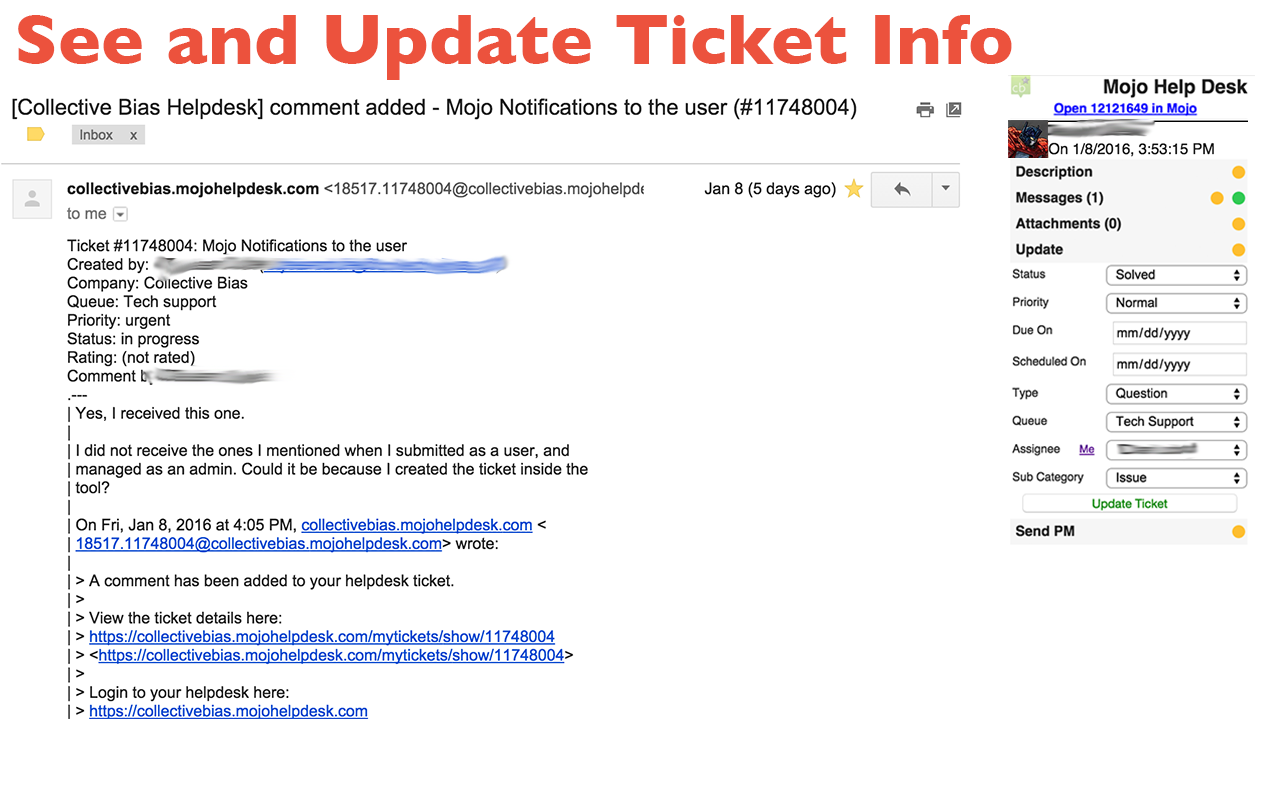
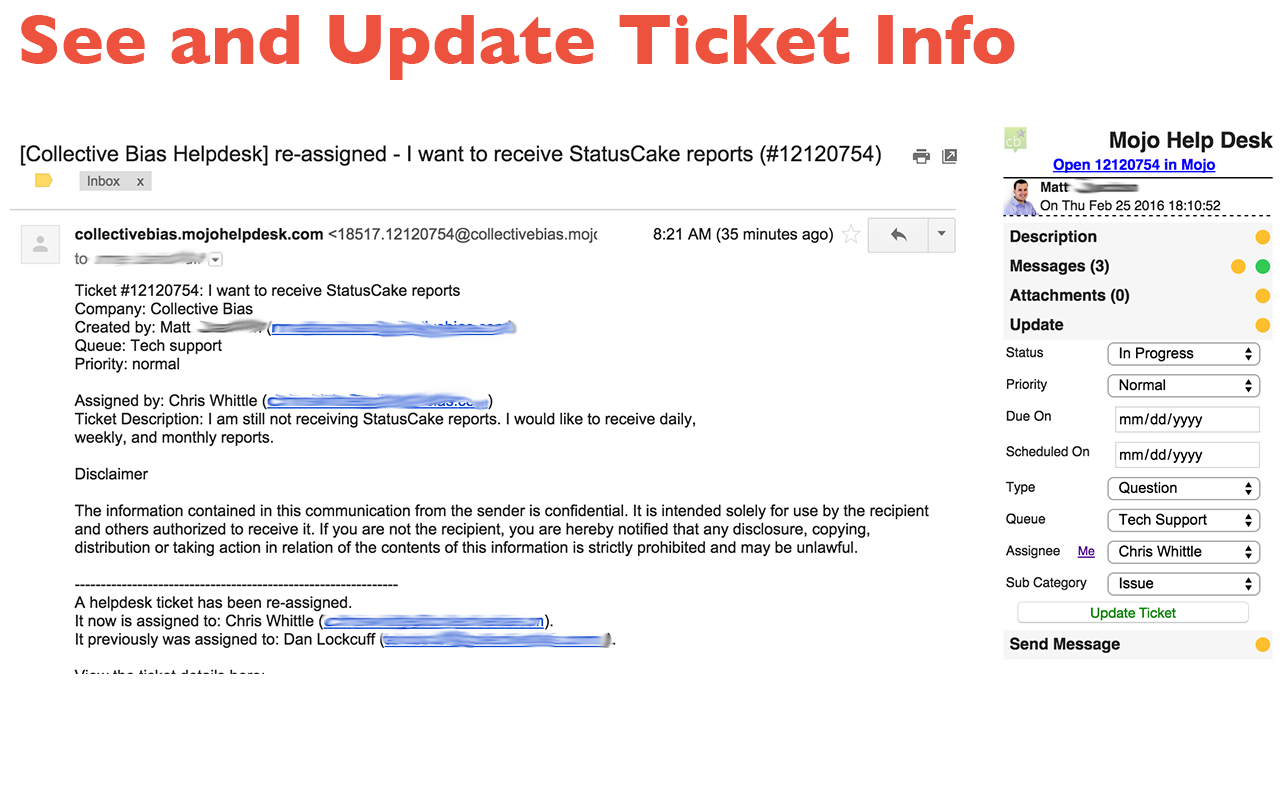
ready to promote with new private and regular messages with updated screen shots

diff --git a/components/Gmail_Sidebar.js b/components/Gmail_Sidebar.js
@@ -5,7 +5,7 @@ var Gmail_Sidebar = React.createClass({
       ticket_description_minimized: true,
       ticket_update_minimized: false,
       ticket_messages_minimized: true,
-      ticket_private_messages_minimized: true,
+      ticket_send_message_minimized: true,
       ticket_attachments_minimized: true,
       ticket: null
     }
@@ -29,13 +29,14 @@ var Gmail_Sidebar = React.createClass({
   },
   getTicket: function(response) {
     var ticket = response.ticket;
+    debug.log(ticket);
     this.setState({
       ticket: ticket
     });
   },
   handleMinimize: function(portlet_name) {
     var oldState = this.state;
-    var available_portlets = ["update", "messages", "description", "attachments", "private_messages"];
+    var available_portlets = ["update", "messages", "description", "attachments", "send_message"];
     var stateObject = function() {
       var one_not_minimized = true;
       returnObj = {};
@@ -67,8 +68,8 @@ var Gmail_Sidebar = React.createClass({
   handleMessagesMinimize: function(event) {
     this.handleMinimize("messages");
   },
-  handlePrivateMessageMinimize: function(event) {
-    this.handleMinimize("private_messages");
+  handleSendMessageMinimize: function(event) {
+    this.handleMinimize("send_message");
   },
   handleAttachmentsMinimize: function(event, event1) {
     this.handleMinimize("attachments");
@@ -119,13 +120,13 @@ var Gmail_Sidebar = React.createClass({
         handleMinimize: this.handleMessagesMinimize,
         minimized: this.state.ticket_messages_minimized
       });
-      var ticket_private_messages_form = React.createElement(Ticket_Private_Message_Form, {
+      var ticket_send_message_form = React.createElement(Ticket_Send_Message_Form, {
         cb_mojo_ext: cb_mojo_ext,
         ticket: this.state.ticket,
-        key: "Ticket_Private_Message_Form",
+        key: "Ticket_Send_Message_Form",
         handleUpdate: this.handleUpdate,
-        handleMinimize: this.handlePrivateMessageMinimize,
-        minimized: this.state.ticket_private_messages_minimized
+        handleMinimize: this.handleSendMessageMinimize,
+        minimized: this.state.ticket_send_message_minimized
       });
       var ticket_attachments_form = React.createElement(Ticket_Attachments_Form, {
         cb_mojo_ext: cb_mojo_ext,
@@ -140,7 +141,7 @@ var Gmail_Sidebar = React.createClass({
       portlets.push(ticket_message_form);
       portlets.push(ticket_attachments_form);
       portlets.push(ticket_update_form);
-      portlets.push(ticket_private_messages_form);
+      portlets.push(ticket_send_message_form);
     } else {
       //TODO LOADING Message
     }

diff --git a/components/forms/Ticket_Send_Message_Form.js b/components/forms/Ticket_Send_Message_Form.js
@@ -1,5 +1,5 @@
-var Ticket_Private_Message_Form = React.createClass({
-    displayName: 'Private Message Form',
+var Ticket_Send_Message_Form = React.createClass({
+    displayName: 'Message Form',
     getInitialState: function() {
         return {
             message: ''
@@ -10,15 +10,23 @@ var Ticket_Private_Message_Form = React.createClass({
             message: event.target.value
         });
     },
-    updateForm: function(event) {
+    sendPrivateMessage: function(event) {
         event.preventDefault();
-        debug.info("Update Private Message");
-        API_Connector.send_private_message(this, this.props.cb_mojo_ext, this.onSent);
+        debug.info("Private Message");
+        API_Connector.send_message(this, true, this.props.cb_mojo_ext, this.onSent);
+    },
+    sendMessage: function(event) {
+        event.preventDefault();
+        debug.info("Message");
+        API_Connector.send_message(this, false, this.props.cb_mojo_ext, this.onSent);
     },
     onSent: function() {
         this.setState({
             message: ""
         });
+        if (this.props.handleUpdate) {
+          this.props.handleUpdate();
+        }
     },
     render: function() {
         var R = React.DOM;
@@ -26,22 +34,26 @@ var Ticket_Private_Message_Form = React.createClass({
         var textarea = R.textarea;
         var button = R.button;
         var content = form({
-            className: "privateMessageForm"
+            className: "messageForm"
         }, R.span({
             className: this.state.status_type,
             id: "update_ticket_status_message",
             key: "status"
         }, this.state.status_message), textarea({
-            id: "private_message",
+            id: "message",
             value: this.state.message,
-            placeholder: "Private Message",
+            placeholder: "Message",
             onChange: this.handleChange
         }), button({
             type: "button",
-            onClick: this.updateForm
-        }, "Send Message"));
+            className: "private",
+            onClick: this.sendPrivateMessage
+        }, "Private Message"),button({
+            type: "button",
+            onClick: this.sendMessage
+        }, "Message"));
         return React.createElement(Portlet, {
-            title: "Send PM",
+            title: "Send Message",
             disable_close: true,
             disable_maximize: true,
             draggable: false,

diff --git a/lib/Shared.js b/lib/Shared.js
@@ -1,4 +1,13 @@
 function Shared() {}
+Shared.reverse = function(a) {
+  var b = [],
+    counter = 0;
+  for (var i = a.length - 1; i >= 0; i -= 1) {
+    b[counter] = a[i];
+    counter += 1;
+  }
+  return b;
+};
 Shared.setDebug = function(isDebug) {
   if (isDebug) {
     window.debug = {
@@ -72,6 +81,9 @@ Shared.convertToFormattedDate = function(inDate) {
       day = date_obj.getDate();
     if (month < 10) {
       month = "0" + month;
+    }
+    if (day < 10) {
+      day = "0" + day;
     }
     return year + "-" + month + "-" + day;
   } else {
@@ -177,9 +189,9 @@ Shared.create_user_info = function(user) {
   var R = React.DOM;
   var now = new Date();
   var url = user.related_data.user.picture_url;
-  if(url==null){
+  if (url == null) {
     url = chrome.extension.getURL("images/icons/default_user.png");
-  }else if(url=="/images/automation-icon.png"){
+  } else if (url == "/images/automation-icon.png") {
     url = chrome.extension.getURL("images/icons/optimus.gif");
   }
   return R.div({
@@ -196,7 +208,7 @@ Shared.create_user_info = function(user) {
     "data-user_id": user.user_id
   }, user.related_data.user.full_name), R.span({
     className: "time_info"
-  }, "On " +Shared.getLocalTimeFromGMT(user.updated_on)));
+  }, "On " + Shared.getLocalTimeFromGMT(user.updated_on)));
 };
 Shared.create_select = function(name, options, value, call_to_action, handleChange) {
   var R = React.DOM;

diff --git a/components/forms/forms.css b/components/forms/forms.css
@@ -98,6 +98,9 @@ input.update_ticket {
   margin: 0px;
   padding: 0px;
 }
+.ticket_messages .titlebar {
+  background: #FFF;
+}
 .ticket_attachments {
   max-height: 350px;
   overflow-y: scroll;
@@ -175,24 +178,33 @@ input.update_ticket {
 .ticket_messages {
   background-color: white;
 }
-.ticket_messages .alt {}
+.ticket_messages .alt {
+  background-color: #f2f2f2;
+}
 .ticket_messages .is_private {
-  background-color: lightgray;
-  -webkit-filter: invert(.8);
+  background-color: #F5DEB3;
 }
 .ticket_messages .is_private .user_info[data-user_id]::after {
   content: " (Private)";
 }
-.privateMessageForm {}
-.privateMessageForm textarea {
+.messageForm {}
+.messageForm textarea {
   width: 90%;
   height: 150px;
   display: block;
   position: relative;
 }
-.privateMessageForm button {
-  width: 90%;
+.messageForm button {
+  width: 30%;
   clear: both;
+  margin: 3px;
+  height: 20px;
+  border-radius: 8px;
+  border-color: #fff;
+}
+.messageForm button.private {
+  width: 60%;
+  background-color: #F5DEB3;
 }
 .ticket_info {
   clear: both;

diff --git a/services/API_Connector.js b/services/API_Connector.js
@@ -17,12 +17,14 @@ API_Connector.get_queues = function(cb_mojo_ext, success_function) {
 API_Connector.get_agent_id = function(cb_mojo_ext, success_function) {
   $.getJSON("https://mysupport.mojohelpdesk.com/api/users/get_by_email.json?email=" + cb_mojo_ext.email_address + "&access_key=" + cb_mojo_ext.api_key, success_function);
 }
-API_Connector.send_private_message = function(react_element, cb_mojo_ext, onsuccess) {
+API_Connector.send_message = function(react_element,is_private, cb_mojo_ext, onsuccess) {
   var state = react_element.state;
   //var ticket_id = event.data("ticket_id");
   var XMLData = "<comment>";
   XMLData = XMLData + "<body>" + state.message + "</body>";
-  XMLData = XMLData + "<is_private>true</is_private>";
+  if(is_private == true){
+    XMLData = XMLData + "<is_private>true</is_private>";
+  }
   XMLData = XMLData + "</comment>";
 
   debug.info(XMLData);

diff --git a/components/forms/Ticket_Messages_Form.js b/components/forms/Ticket_Messages_Form.js
@@ -6,14 +6,15 @@ var Ticket_Messages_Form = React.createClass({
     var message_count = 0
     if (!Shared.isEmpty(messages_list) && messages_list.length > 0) {
       //We want latest first
-      messages_list = messages_list.reverse();
+      //var sorted_messages_list = messages_list.reverse();
+      var sorted_messages_list = Shared.reverse(messages_list);
       var cb_mojo_ext = this.props.cb_mojo_ext;
       var mojo_domain = cb_mojo_ext.mojo_domain;
       var x = 0;
-      message_count = messages_list.length;
+      message_count = sorted_messages_list.length;
       var message_html = R.ul({
         className: "ticket_messages"
-      }, messages_list.map(function(comment) {
+      }, sorted_messages_list.map(function(comment) {
         if (Shared.isEmpty(comment.body)) {
           return null;
         }
